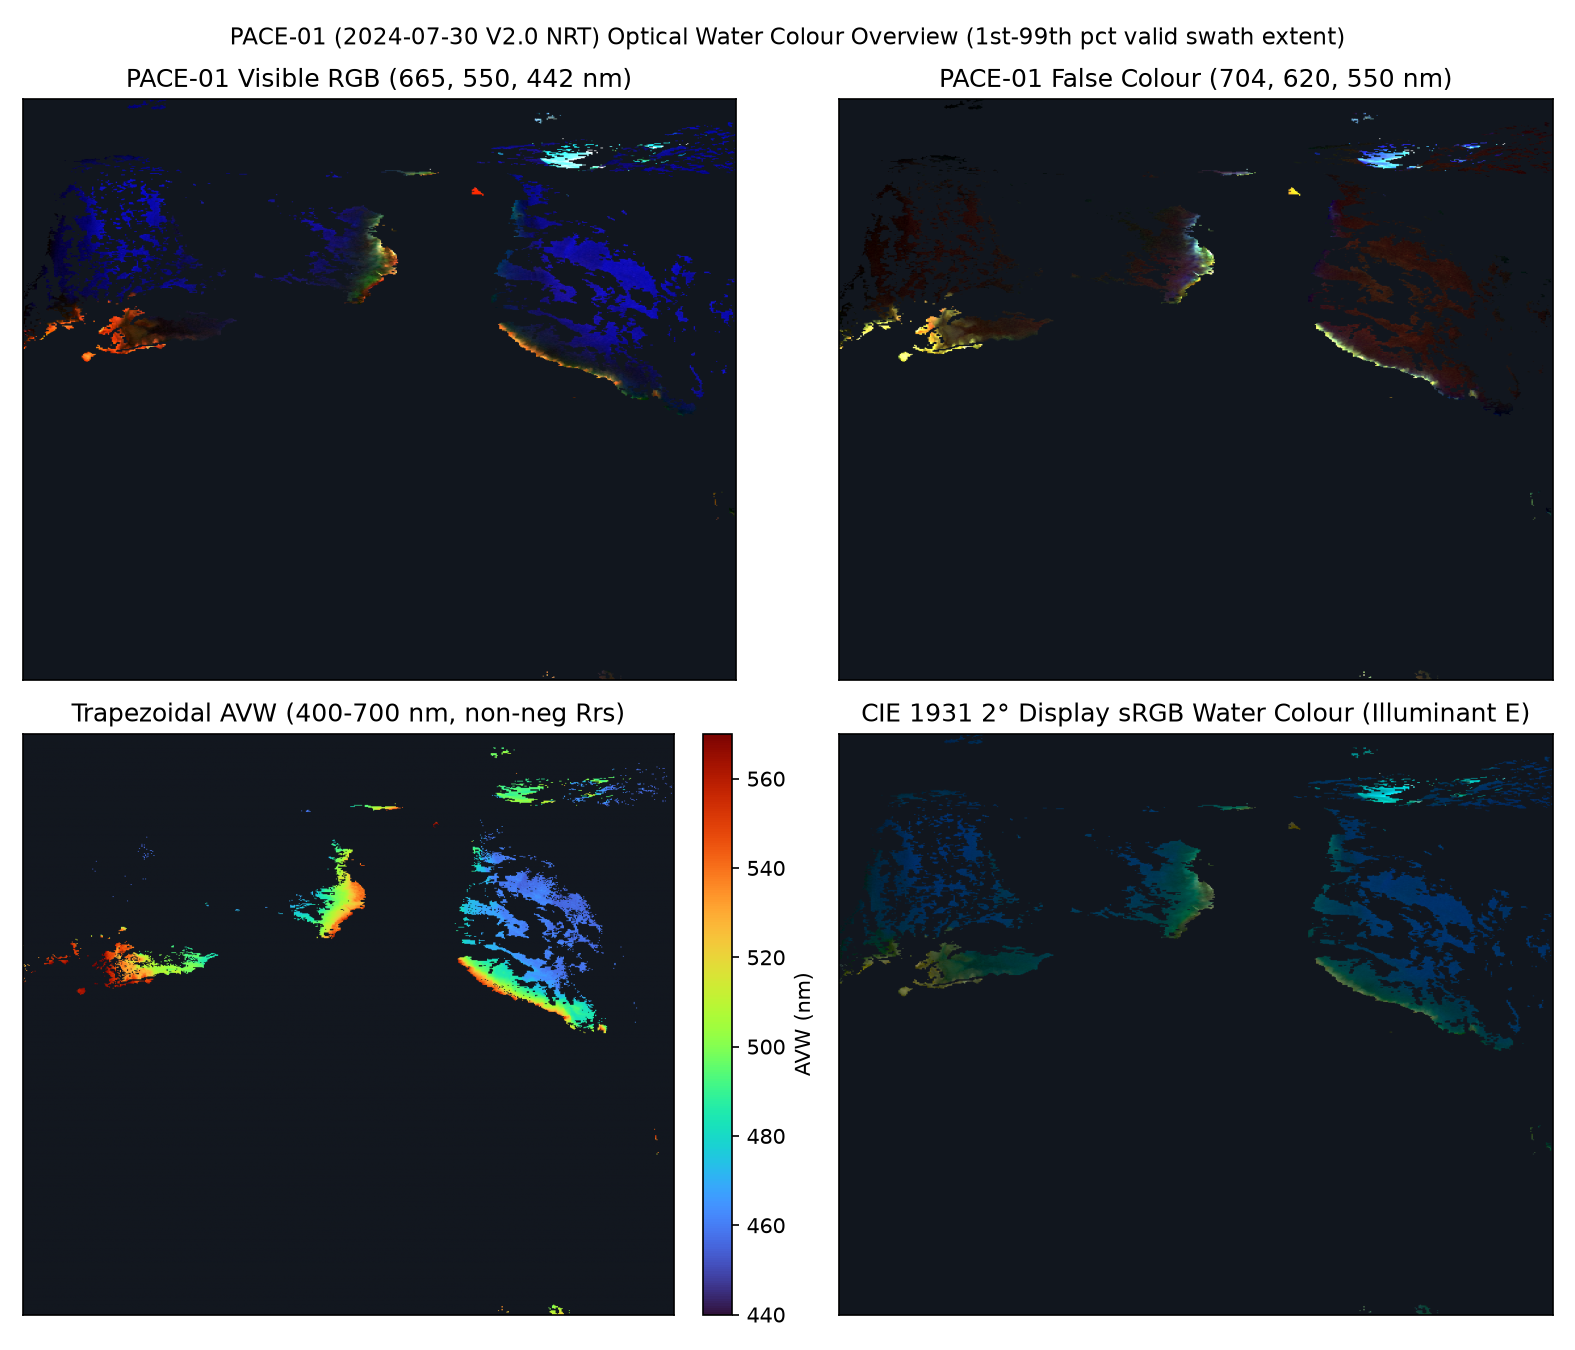
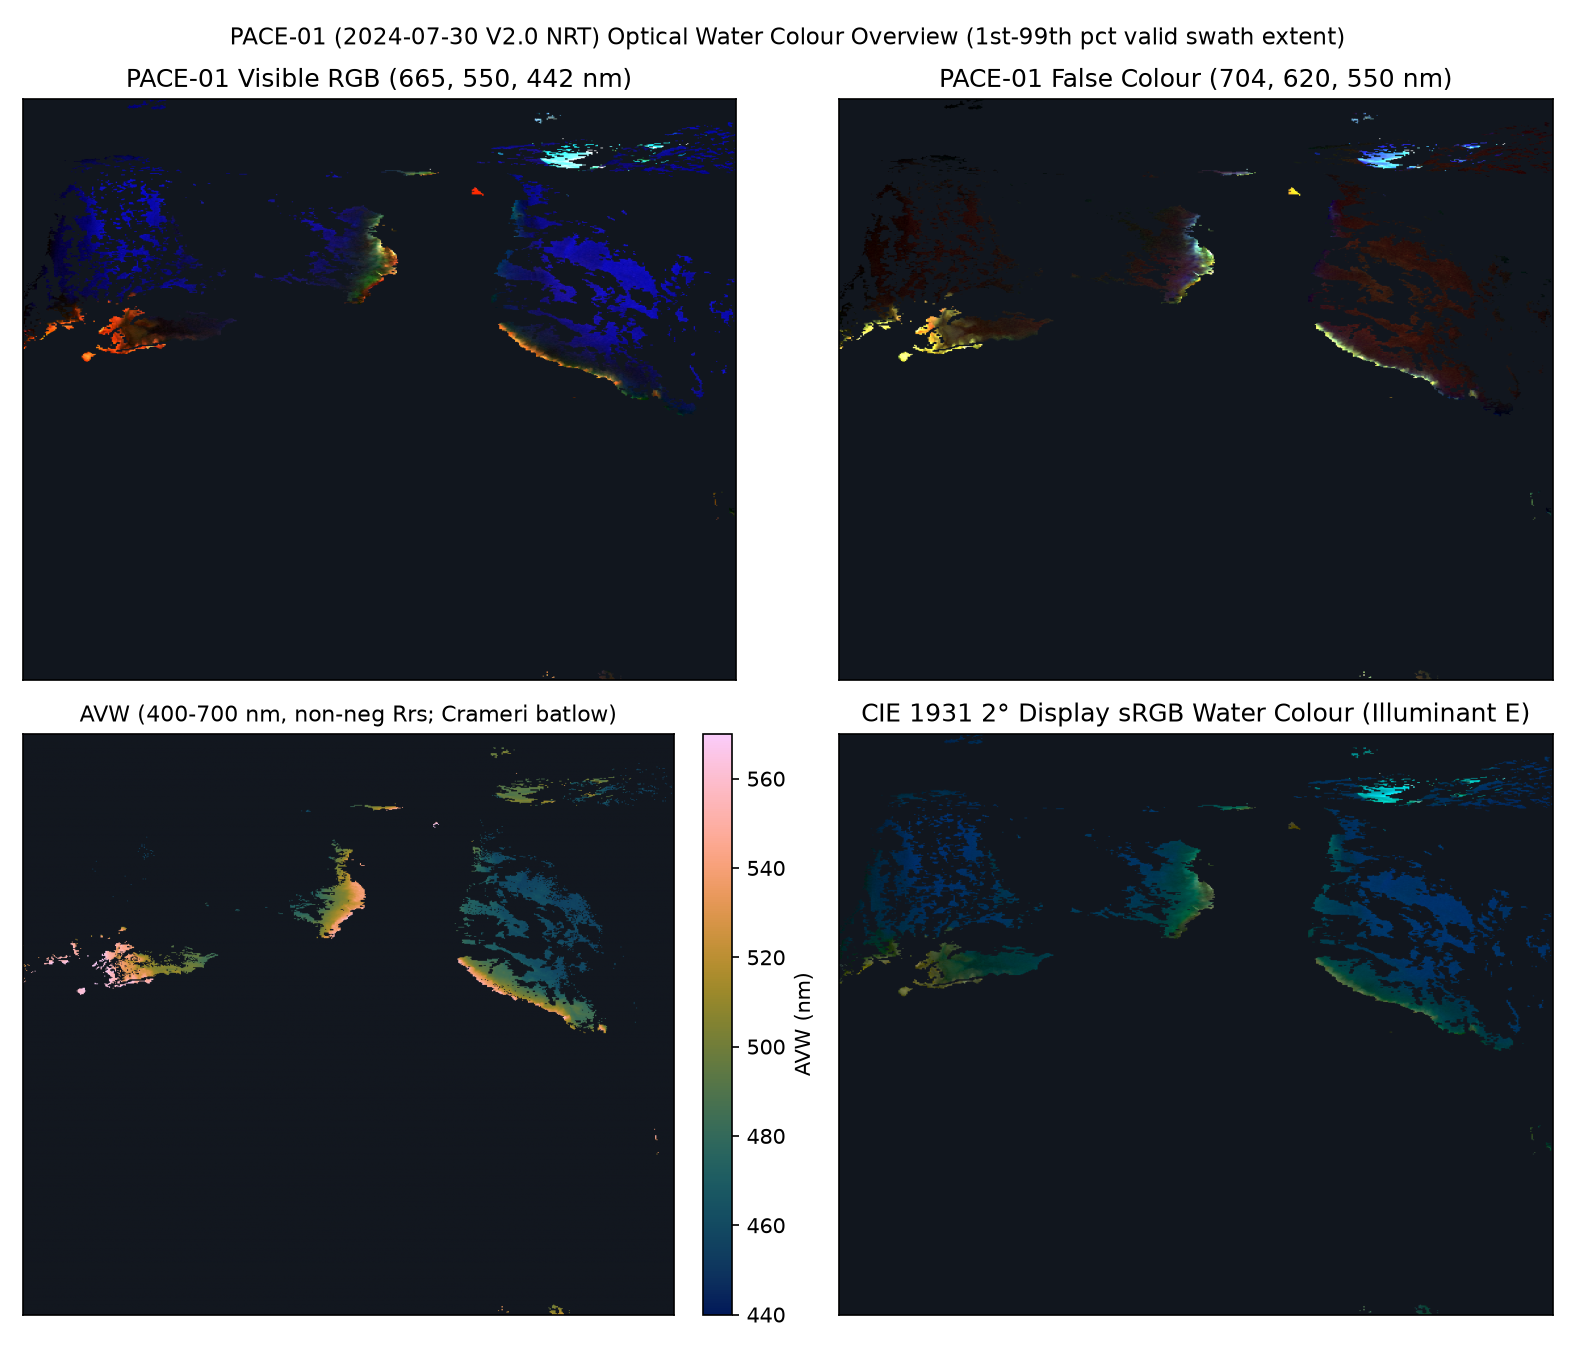
Refresh exploratory Q01 results with Crameri batlow, cohort_key, and render_key

diff --git a/results/Q01_water_colour/README.md b/results/Q01_water_colour/README.md
@@ -9,13 +9,13 @@
 
 | File | Description |
 | --- | --- |
-| [`manifest.json`](manifest.json) | Deterministic provenance record (`git_commit`, script/input/CSV SHA-256s, denominators, units, runtime) |
+| [`manifest.json`](manifest.json) | Deterministic provenance record (`git_commit`, `git_tree_clean`, `measurement_contract`, `cohort_key`, `render_key`, script/input/CSV SHA-256s, denominators, units, runtime) |
 | [`gloria_color_by_water_body_type.csv`](gloria_color_by_water_body_type.csv) | GLORIA CIE 1931 2° chromaticity, Forel–Ule hue angle, AVW, and QWIP summaries by `Water_body_type` |
 | [`gloria_color_by_water_type.csv`](gloria_color_by_water_type.csv) | GLORIA colour and AVW summaries by investigator-annotated `Water_type` (1–6 plus unassigned) |
 | [`pace_swath_summary.csv`](pace_swath_summary.csv) | PACE-01 granule pixel accounting, PCA variance ratios, AVW/hue quantiles, and SAM OOD rates |
 | [`owt_archetype_summary.csv`](owt_archetype_summary.csv) | Exploratory 4-quartile GLORIA AVW archetypes applied to sampled PACE-01 pixels (with SAM angle & spectral area) |
 | [`fig01_gloria_chromaticity_and_avw.png`](fig01_gloria_chromaticity_and_avw.png) | GLORIA CIE 1931 2° chromaticity diagram (Illuminant E) and AVW vs. Forel–Ule hue angle with PACE-01 overlay |
-| [`fig02_pace01_optical_overview.png`](fig02_pace01_optical_overview.png) | PACE-01 visible RGB, false-colour red-edge RGB, trapezoidal AVW, and CIE 1931 display sRGB panels |
+| [`fig02_pace01_optical_overview.png`](fig02_pace01_optical_overview.png) | PACE-01 visible RGB, false-colour red-edge RGB, trapezoidal AVW (Crameri `batlow`, `render_key`-gated), and CIE 1931 display sRGB panels |
 
 ## Key exploratory observations
 
